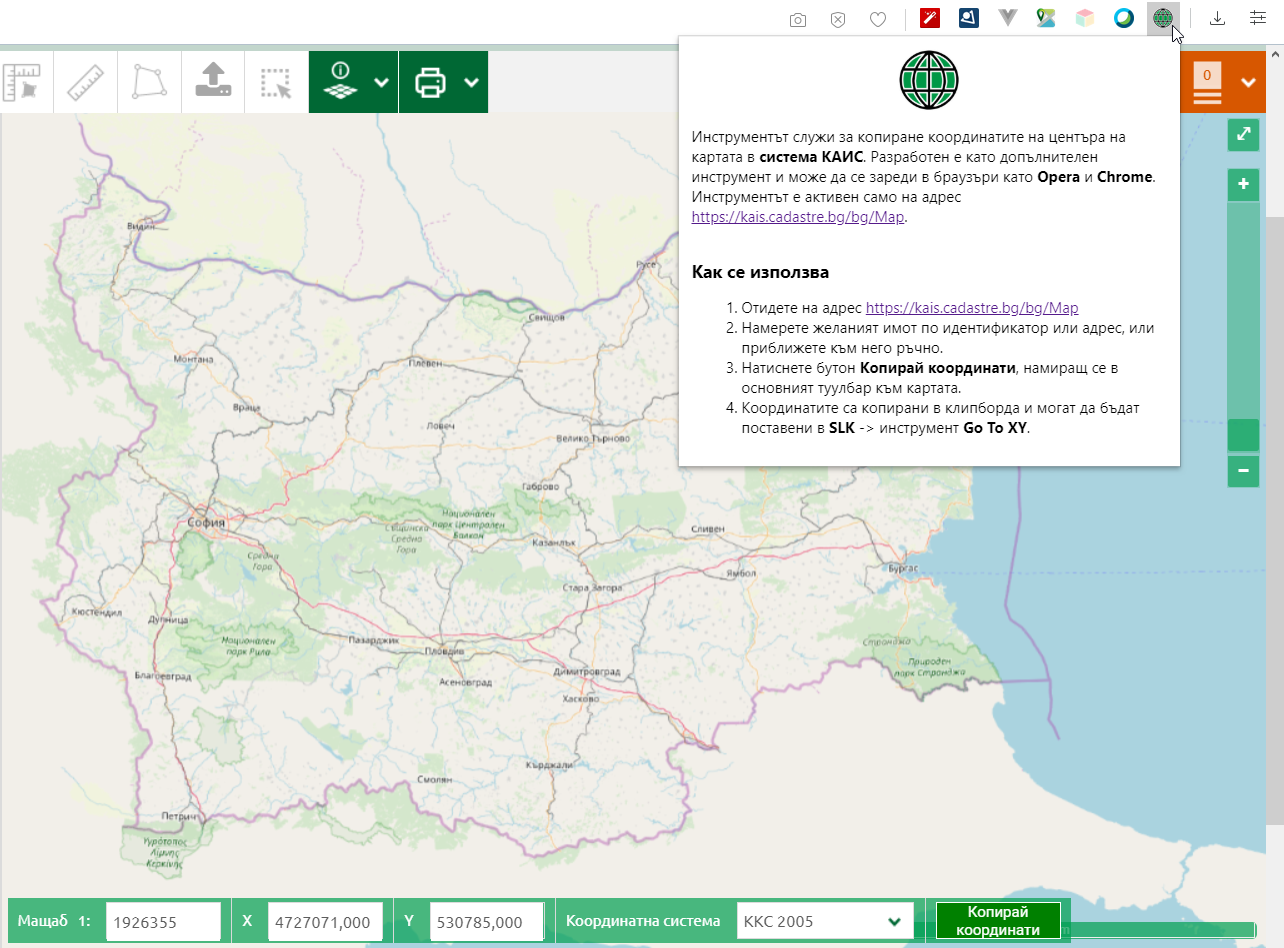
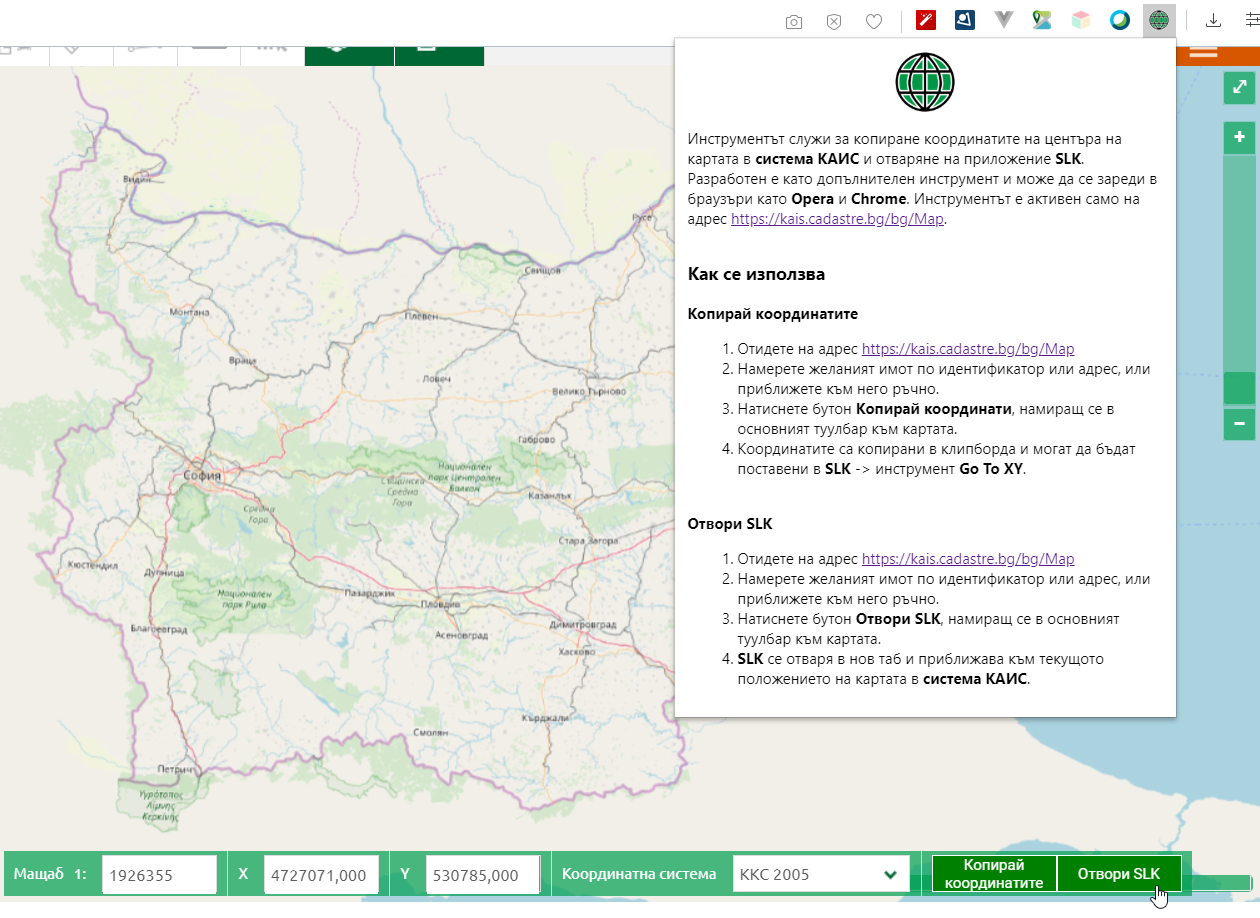
add button for navigating to slk

diff --git a/external-script.js b/external-script.js
@@ -2,38 +2,47 @@ var getCoordinates = (transform = false) => {
   let mapCenter = window.mainMap.OlMapInstance.getView().getCenter();
   let coordinates = [];
   if (transform) {
-    let tmp = window.ol.proj.transform(mapCenter, 'EPSG:8122', 'EPSG:25835');
-    coordinates[0] = tmp[1];
-    coordinates[1] = tmp[0];
-  } else {
-    coordinates[0] = mapCenter[1];
-    coordinates[1] = mapCenter[0];
+    coordinates = window.ol.proj.transform(mapCenter, 'EPSG:8122', 'EPSG:25835');
   }
   return coordinates.map(c => c.toFixed(3));
 };
 
+var getScale = () => {
+  let view = window.mainMap.OlMapInstance.getView();
+  let projection = view.getProjection();
+  let mpu = ol.proj.Units.METERS_PER_UNIT[projection.getUnits()];
+  let scale = view.getResolution() * mpu * 39.37 * (25.4 / 0.28);
+  return Math.round(scale);
+};
+
+var createButton = text => {
+  let button = document.createElement('button');
+  button.appendChild(document.createTextNode(text));
+  button.style.width = '100px';
+  button.style.height = '30px';
+  button.style.font = '12px Roboto,Ubuntu';
+  button.style.width = '100px';
+  button.style.height = '30px';
+  button.style.border = '1px solid white';
+  button.style.backgroundColor = 'green';
+  button.style.color = 'white';
+  return button;
+};
+
 window.onload = function() {
+  console.log(window.wtf);
   let container = document.querySelector('div.map-control.map-control-inner');
   if (container) {
     let item = document.createElement('span');
     item.className = 'mc-controlbox';
 
-    let button = document.createElement('button');
-    button.appendChild(document.createTextNode('Копирай координати'));
-    button.style.width = '100px';
-    button.style.height = '30px';
-    button.style.font = '12px Roboto,Ubuntu';
-    button.style.width = '100px';
-    button.style.height = '30px';
-    button.style.border = '1px solid white';
-    button.style.backgroundColor = 'green';
-    button.style.color = 'white';
-
-    button.onclick = () => {
+    let buttonCopyCoordinates = createButton('Копирай координатите');
+    buttonCopyCoordinates.onclick = () => {
       let coordinates = getCoordinates(true);
-      navigator.clipboard.writeText(coordinates).then(
+      let text = `${coordinates[1]},${coordinates[0]}`;
+      navigator.clipboard.writeText(text).then(
         () => {
-          alert(`Координати ${coordinates} бяха копирани в клипборда!`);
+          alert(`Координати ${text} бяха копирани в клипборда!`);
         },
         err => {
           alert('Грешка: ', err);
@@ -41,7 +50,16 @@ window.onload = function() {
       );
     };
 
-    item.appendChild(button);
+    let buttonOpenSlk = createButton('Отвори SLK');
+    buttonOpenSlk.onclick = () => {
+      let coordinates = getCoordinates(true);
+      let scale = getScale();
+      let url = `http://gis.cezbg.corp/cadastre?x=${coordinates[1]}&y=${coordinates[0]}&scale=${scale}`;
+      window.open(url, '_blank');
+    };
+
+    item.appendChild(buttonCopyCoordinates);
+    item.appendChild(buttonOpenSlk);
 
     container.appendChild(item);
   }

diff --git a/popup.html b/popup.html
@@ -32,16 +32,24 @@
     <div class="content">
       <img src="icon.png" class="logo" alt="logo" />
       <p>
-        Инструментът служи за копиране координатите на центъра на картата в <b>система КАИС</b>. Разработен е като допълнителен инструмент и може да
-        се зареди в браузъри като <b>Opera</b> и <b>Chrome</b>. Инструментът е активен само на адрес
+        Инструментът служи за копиране координатите на центъра на картата в <b>система КАИС</b> и отваряне на приложение <b>SLK</b>. Разработен е като
+        допълнителен инструмент и може да се зареди в браузъри като <b>Opera</b> и <b>Chrome</b>. Инструментът е активен само на адрес
         <a href="https://kais.cadastre.bg/bg/Map">https://kais.cadastre.bg/bg/Map</a>.
       </p>
       <h3 style="align-self: baseline; margin-bottom: 0px;">Как се използва</h3>
+      <h4 style="align-self: baseline; margin-bottom: 0px;">Копирай координатите</h4>
       <ol>
         <li>Отидете на адрес <a href="https://kais.cadastre.bg/bg/Map">https://kais.cadastre.bg/bg/Map</a></li>
         <li>Намерете желаният имот по идентификатор или адрес, или приближете към него ръчно.</li>
         <li>Натиснете бутон <b>Копирай координати</b>, намиращ се в основният туулбар към картата.</li>
         <li>Координатите са копирани в клипборда и могат да бъдат поставени в <b>SLK</b> -> инструмент <b>Go To XY</b>.</li>
+      </ol>
+      <h4 style="align-self: baseline; margin-bottom: 0px;">Отвори SLK</h4>
+      <ol>
+        <li>Отидете на адрес <a href="https://kais.cadastre.bg/bg/Map">https://kais.cadastre.bg/bg/Map</a></li>
+        <li>Намерете желаният имот по идентификатор или адрес, или приближете към него ръчно.</li>
+        <li>Натиснете бутон <b>Отвори SLK</b>, намиращ се в основният туулбар към картата.</li>
+        <li><b>SLK</b> се отваря в нов таб и приближава към текущото положението на картата в <b>система КАИС</b>.</li>
       </ol>
     </div>
   </body>

diff --git a/README.md b/README.md
@@ -2,7 +2,10 @@
 
 Developed as a chrome extension, this tool can be used to copy map's center coordinates to your clipboard.
 
-This extension can be used in [https://kais.cadastre.bg/bg/Map](https://kais.cadastre.bg/bg/Map) site only. When enabled it adds a new button in map's toolbar which can be used to copy map's center coordinates to the clipboard. `The result is always in UTM 35N coordinаte system`!
+This extension can be used in [https://kais.cadastre.bg/bg/Map](https://kais.cadastre.bg/bg/Map) site only. When enabled it adds two new buttons in map's toolbar:
+
+- `Copy coordinates` - which can be used to copy map's center coordinates to the clipboard. **The result is always in UTM 35N coordinаte system**!
+- `Open SLK` - which can open SLK in new tab and zoom to current cadastral map location.
 
 # How to install
 
